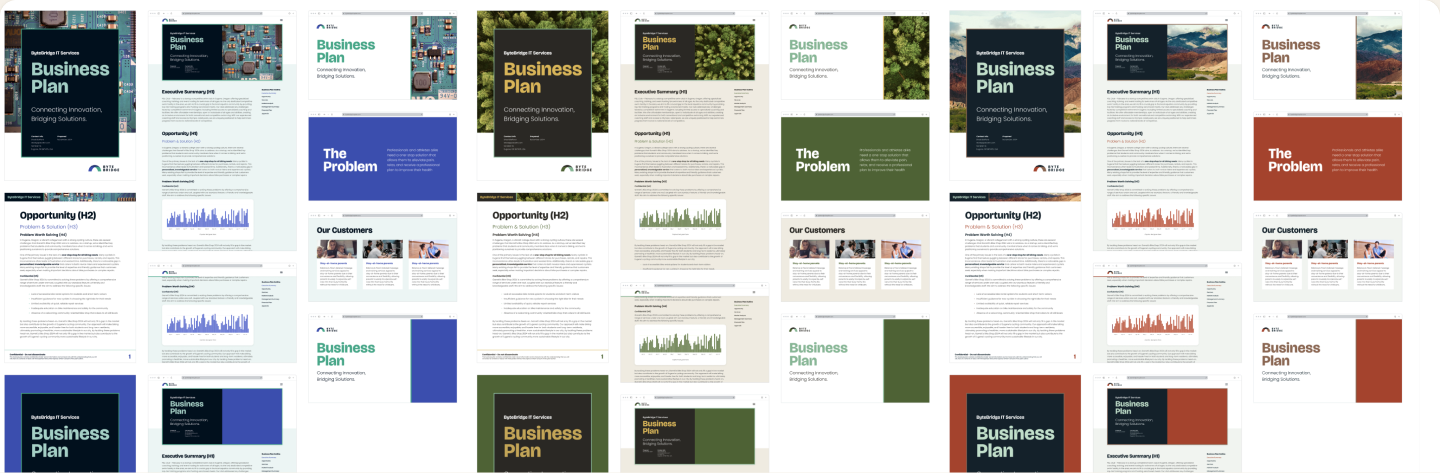
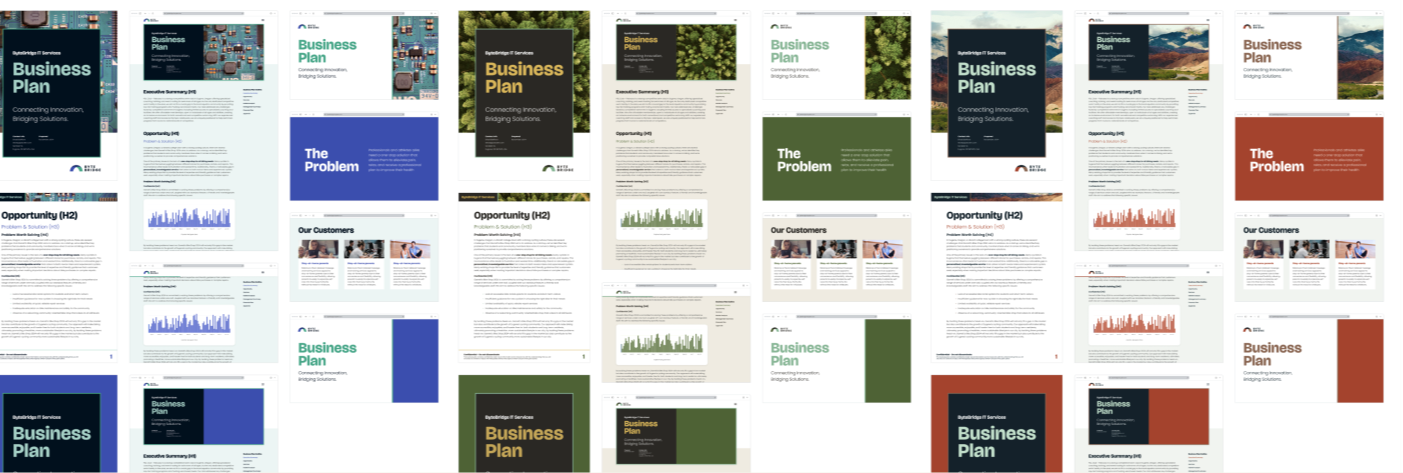
Crop the empty strip off the themes montage
The PNG carried 37px of blank background on its right edge, which read as
uneven padding inside the frame.

diff --git a/src/app/work/liveplan/original/page.tsx b/src/app/work/liveplan/original/page.tsx
@@ -446,7 +446,7 @@ export default function LivePlanPage() {
             <Image
               src="/images/liveplan/themes-showcase.png"
               alt="A montage of LivePlan plan covers and pages across many themes — neutral, blue, green, dark, teal, and bold red — showing how the token-based theming system restyles typography, color, and charts across the whole document"
-              width={1440}
+              width={1403}
               height={473}
               sizes="(max-width: 1200px) 100vw, 1200px"
               className={styles.themingImg}

diff --git a/src/app/work/liveplan/page.tsx b/src/app/work/liveplan/page.tsx
@@ -245,7 +245,7 @@ export default function LivePlanPage() {
                     <Image
                       src="/images/liveplan/themes-showcase.png"
                       alt="A montage of LivePlan plan covers and pages across many themes, showing how the token system restyles typography, color and charts across the whole document"
-                      width={1440}
+                      width={1403}
                       height={473}
                       sizes="(max-width: 1200px) 100vw, 1200px"
                       className={beats.montage}
